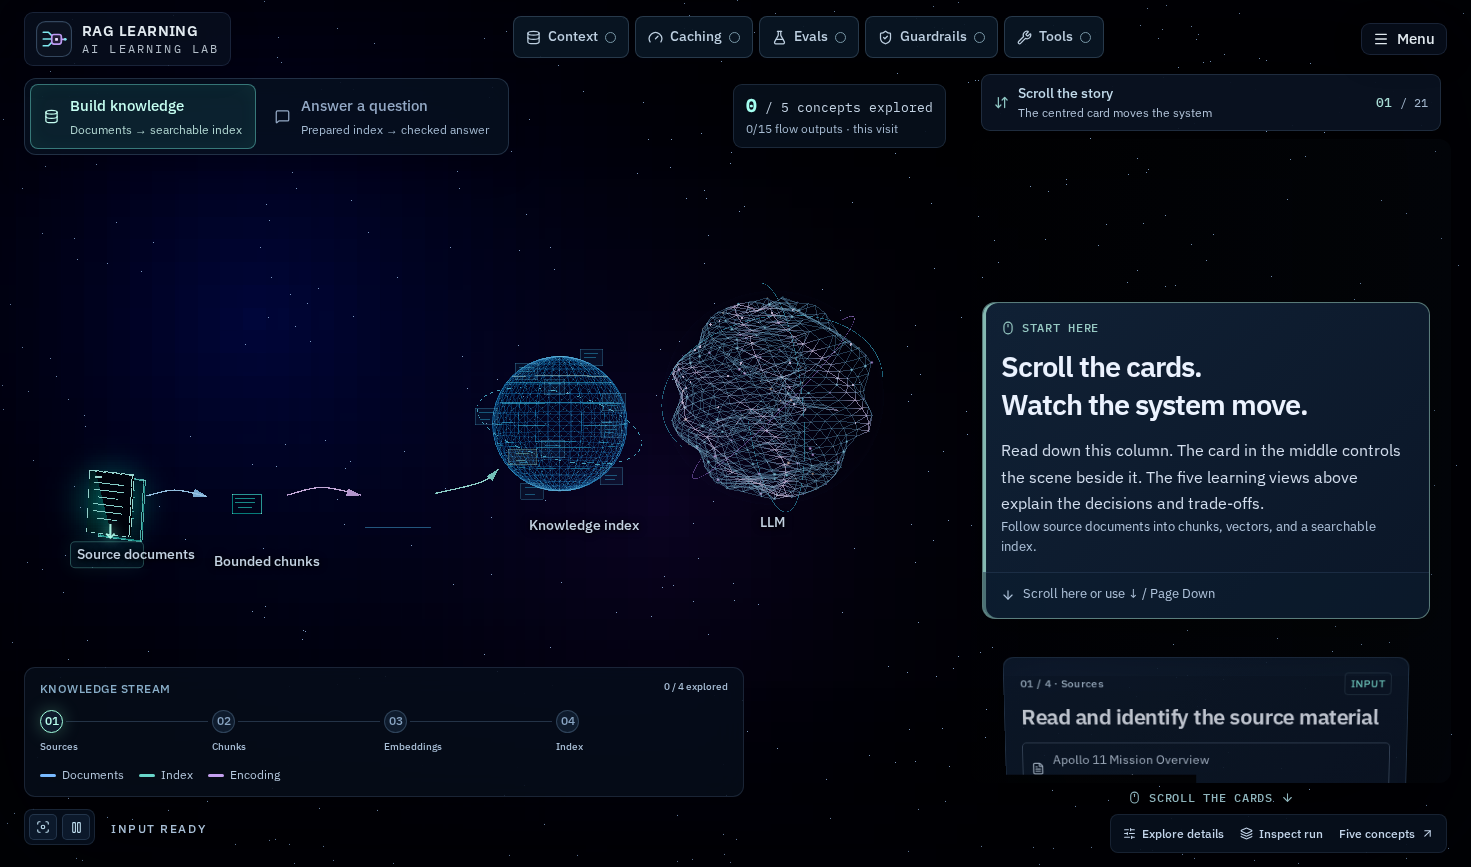
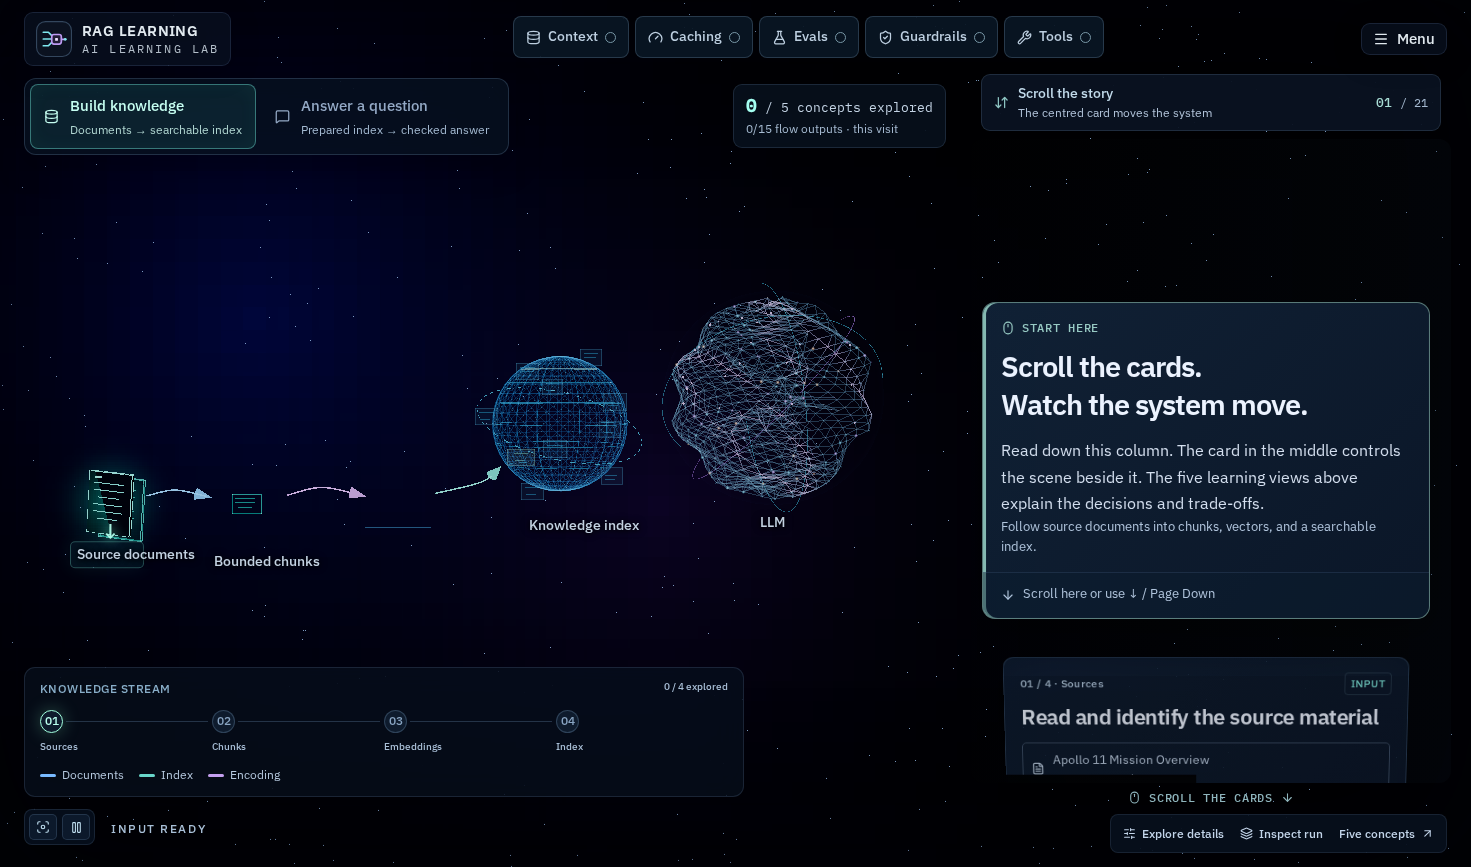
Changes

Changed region(s): [[0.4589, 0.3426, 0.6118, 0.5917], [0.3365, 0.4048, 0.4283, 0.5606]]

diff --git a/src/lib/rag-scene.ts b/src/lib/rag-scene.ts
@@ -41,11 +41,11 @@ export interface SceneTransfer {
 
 // World coordinates, shared by objects, connections and the travelling data.
 export const PREPARATION_POSITIONS: Partial<Record<SceneNode, Point3>> = {
-  source: [-5, -0.7, 0.7],
-  chunks: [-2.5, -0.7, 0.8],
-  vectors: [0.2, -0.7, 0.5],
-  index: [3.2, 0.7, -0.8],
-  model: [7.2, 1.2, -0.5],
+  source: [-6.4, -0.5, 0.6],
+  chunks: [-3.4, -0.5, 0.6],
+  vectors: [-0.5, -0.5, 0.5],
+  index: [3.2, 0.3, -0.6],
+  model: [7.6, 0.8, -0.5],
 };
 export const REQUEST_POSITIONS: Partial<Record<SceneNode, Point3>> = {
   question: [-8, 0, 0.4],
@@ -140,9 +140,6 @@ const PATH_BENDS: Partial<Record<string, Point3[]>> = {
     [-5, -3.2, 0.8],
     [-7, -2, 0.8],
   ],
-  "source:chunks": [[-3.8, -0.45, 0.8]],
-  "chunks:vectors": [[-1.15, -0.4, 0.8]],
-  "vectors:index": [[1.7, -0.35, 0.2]],
   "question:input": [[-7, 0.15, 0.4]],
   "input:router": [[-5.05, 0.15, 0.4]],
   "router:cache": [
